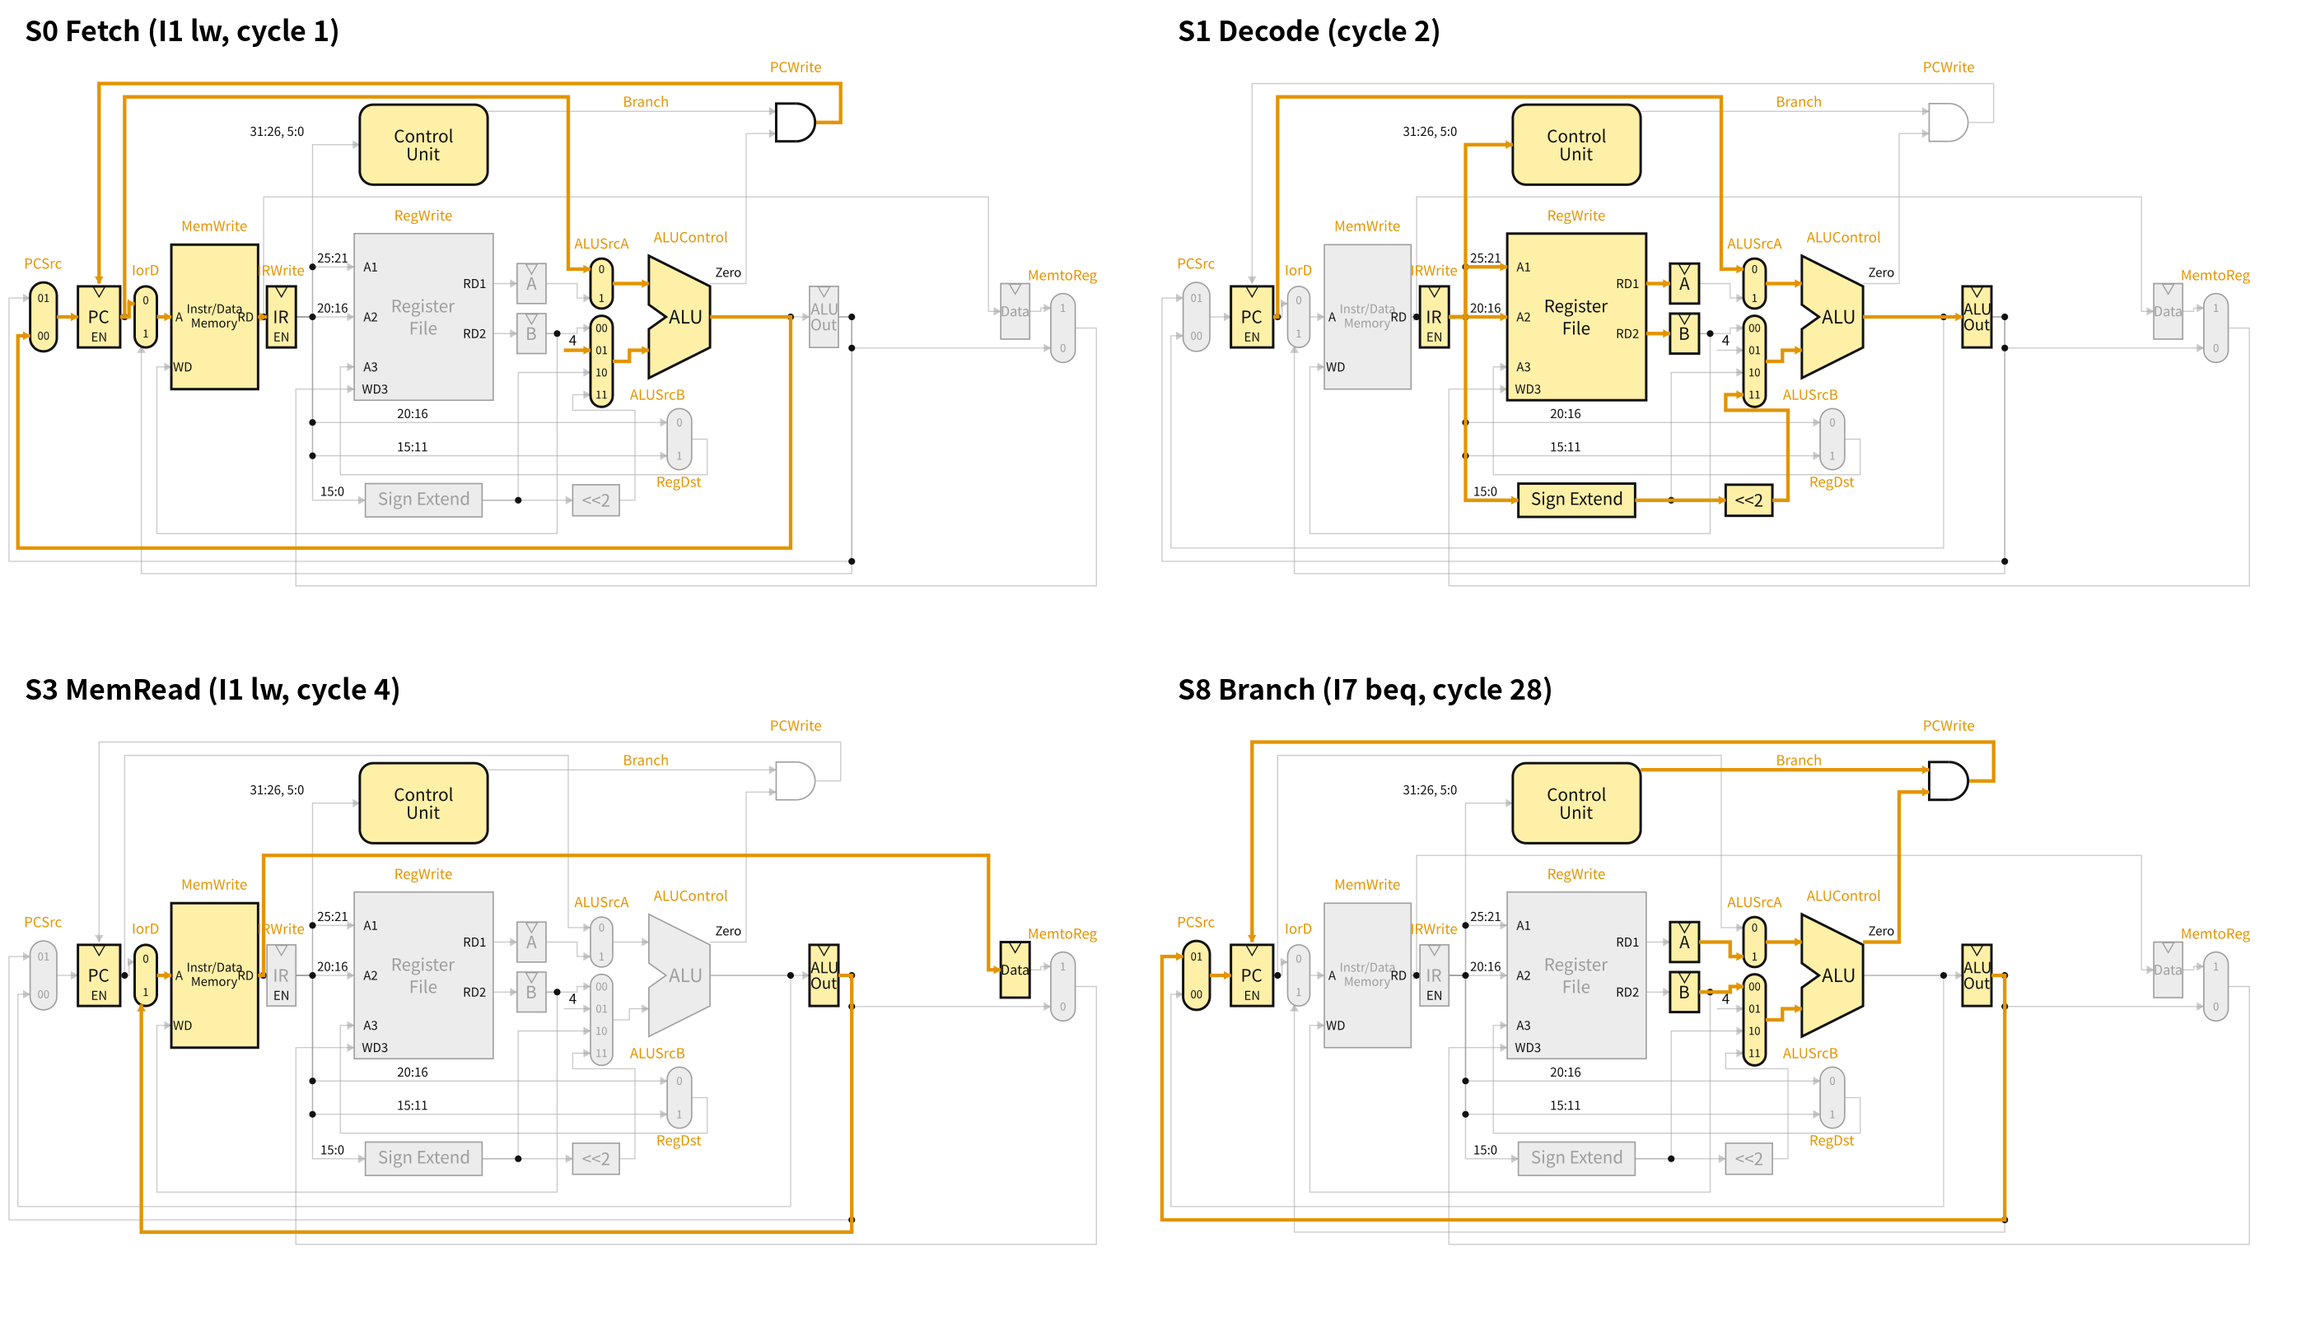
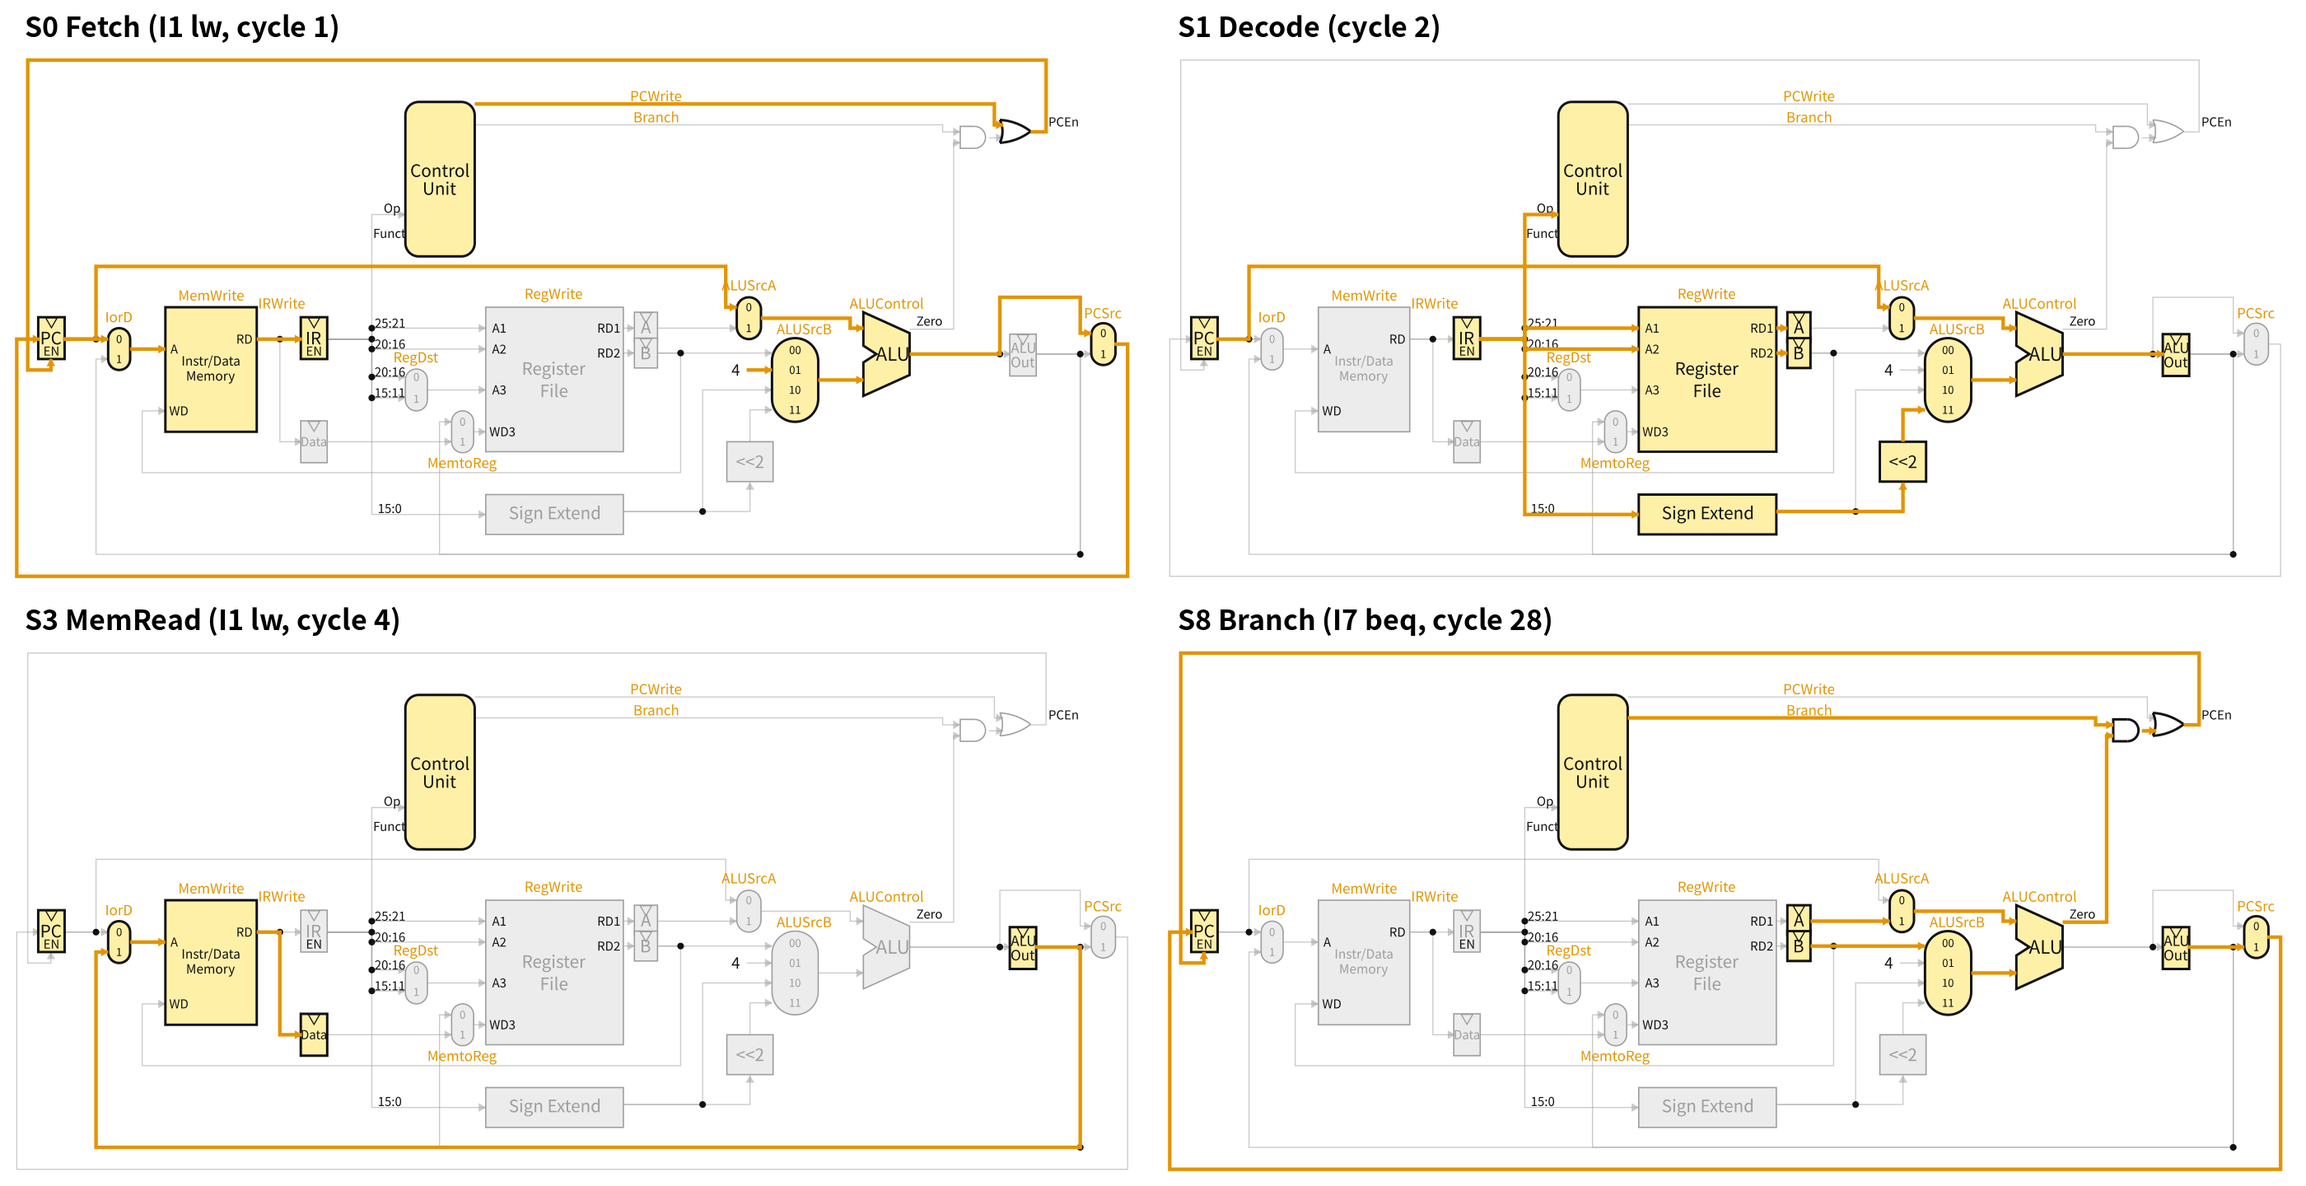
inorder/multi_cycle: redraw the multi-cycle datapath after the supplied H&H multi-cycle figure
Part and wire positions are taken from the pixel coordinates of the reference
figure (kept as inorder/slides/B_multi_cycle_datapath_ref.png): RegDst and
MemtoReg muxes left of the register file, PCSrc mux at the right, PCEn via
AND + OR gates.  The simulator now marks the OR gate and PCWrite/AND inputs.

Claude-Session: https://claude.ai/code/session_01AxNc7avXBfLtQ6ogjBvSix

diff --git a/inorder/shared/datapath.py b/inorder/shared/datapath.py
@@ -19,7 +19,7 @@ Colours come from common.style only.
 from __future__ import annotations
 
 import numpy as np
-from manim import (DOWN, LEFT, RIGHT, UP, WHITE, Arc, Dot, Line, Polygon, Rectangle,
+from manim import (DOWN, LEFT, RIGHT, UP, WHITE, Arc, ArcBetweenPoints, Dot, Line, Polygon, Rectangle,
                    RoundedRectangle, Triangle, VGroup, VMobject)
 
 from common.style import FAINT, GREY, INK, MONO, ORANGE, YEL, txt
@@ -156,6 +156,12 @@ def _shape(kind, c, w, h):
         pts = [(x0, y + h / 2), (x1, y + h / 4), (x1, y - h / 4), (x0, y - h / 2),
                (x0, y - h / 10), (x0 + w * 0.28, y), (x0, y + h / 10)]
         return Polygon(*[[a, b, 0] for a, b in pts])
+    if kind == "or":
+        x0, x1 = x - w / 2, x + w / 2
+        back = ArcBetweenPoints([x0, y + h / 2, 0], [x0, y - h / 2, 0], angle=-0.9)
+        top = ArcBetweenPoints([x0, y + h / 2, 0], [x1, y, 0], angle=-0.6)
+        bot = ArcBetweenPoints([x0, y - h / 2, 0], [x1, y, 0], angle=0.6)
+        return VGroup(back, top, bot)
     if kind == "and":
         x0 = x - w / 2
         body = VMobject()
@@ -210,7 +216,7 @@ class Part(VGroup):
         else:
             self.body.set_stroke(INK, 1.8).set_fill(WHITE, 1)
             self.labels.set_color(INK)
-        if self.kind == "and":
+        if self.kind in ("and", "or"):
             self.body.set_fill(opacity=0)
         return self
 
@@ -258,10 +264,10 @@ class Datapath(VGroup):
         self.comp_group = VGroup(*self.comps.values())
         self.dots = VGroup(*[Dot([x, y, 0], radius=0.03, color=INK) for x, y in junc])
         if variant == "multi":
-            self.four = txt("4", 9).move_to([-1.96, 0.79, 0])
+            self.four = txt("4", 10).move_to([MC_FOUR[0], MC_FOUR[1], 0])
         else:
             self.four = txt("4", 11).move_to([-5.98, -0.60, 0]).shift(LEFT * 0.04)
-        self.fields = VGroup(
+        self.fields = VGroup() if variant == "multi" else VGroup(
             txt("25:21", 8).move_to([-4.12, 1.53, 0]),
             txt("20:16", 8).move_to([-4.12, 1.08, 0]),
             txt("20:16", 8).move_to([-3.40, 0.13, 0]),
@@ -305,98 +311,112 @@ class Datapath(VGroup):
 
 
 # ====================================================================== multi ===
-# Multi-cycle variant (multi-cycle deck slide 57 = PDF p.29), j path omitted.
-# Common parts keep the single-cycle place.  The unified memory takes the
-# instruction-memory slot; the non-architectural registers sit exactly on the
-# stage boundaries where the pipeline registers will go:
-#   IR @ IF/ID,  A,B @ ID/EX,  ALUOut @ EX/MEM,  Data @ MEM/WB.
+# Multi-cycle variant, drawn after the H&H multi-cycle processor figure the user
+# supplied (inorder/slides/B_multi_cycle_datapath_ref.png, 1100x555 px, no jump;
+# same figure as slide 57 = PDF p.29).  Coordinates below are pixel positions in
+# that image, mapped linearly onto the datapath area x -7.0..3.1, y 3.30..-1.45.
+_KX, _KY = 10.1 / 1020, 4.75 / 530
+
+
+def _px(x, y):
+    return (round(-7.0 + (x - 55) * _KX, 4), round(3.30 - (y - 15) * _KY, 4))
+
+
+def _part(kind, x, y, w, h, label=""):
+    return (kind, _px(x, y), w * _KX, h * _KY, label)
+
+
+def _path(*pts):
+    return [_px(x, y) for x, y in pts]
+
+
 MC_LAYOUT = {
-    "PCMUX":     ("mux",   (-6.72, 1.00), 0.24, 0.62, ""),
-    "PC":        ("reg",   (-6.22, 1.00), 0.38, 0.55, "PC"),
-    "IORDMUX":   ("mux",   (-5.80, 1.00), 0.20, 0.55, ""),
-    "MEM":       ("box",   (-5.18, 1.00), 0.78, 1.30, "Instr/Data\nMemory"),
-    "IR":        ("reg",   (-4.58, 1.00), 0.26, 0.55, "IR"),
-    "CTRL":      ("ctrl",  (-3.30, 2.55), 1.15, 0.72, "Control\nUnit"),
-    "RF":        ("box",   (-3.30, 1.00), 1.25, 1.50, "Register\nFile"),
-    "SIGNEXT":   ("box",   (-3.30, -0.65), 1.05, 0.30, "Sign Extend"),
-    "A":         ("reg",   (STAGE_X["ID/EX"], 1.30), 0.26, 0.36, "A"),
-    "B":         ("reg",   (STAGE_X["ID/EX"], 0.85), 0.26, 0.36, "B"),
-    "SRCAMUX":   ("mux",   (-1.70, 1.30), 0.20, 0.45, ""),
-    "SRCBMUX":   ("mux",   (-1.70, 0.60), 0.20, 0.82, ""),
-    "ALU":       ("alu",   (-1.00, 1.00), 0.55, 1.10, "ALU"),
-    "REGDSTMUX": ("mux",   (-1.00, -0.10), 0.22, 0.55, ""),
-    "SL2":       ("box",   (-1.75, -0.65), 0.42, 0.28, "<<2"),
-    "AND":       ("and",   (0.05, 2.75), 0.36, 0.34, ""),
-    "ALUOUT":    ("reg",   (STAGE_X["EX/MEM"], 1.00), 0.26, 0.55, "ALU\nOut"),
-    "DATA":      ("reg",   (STAGE_X["MEM/WB"], 1.05), 0.26, 0.50, "Data"),
-    "RESMUX":    ("mux",   (2.45, 0.90), 0.22, 0.62, ""),
+    "PC":      _part("reg", 90.5, 301, 24, 42, "PC"),
+    "IORDMUX": _part("mux", 152, 312, 20, 42),
+    "MEM":     _part("box", 235.5, 332.5, 83, 125, "Instr/Data\nMemory"),
+    "IR":      _part("reg", 329, 301, 24, 42, "IR"),
+    "DATA":    _part("reg", 329, 405, 24, 42, "Data"),
+    "CTRL":    _part("ctrl", 443.5, 141.5, 63, 155, "Control\nUnit"),
+    "REGDSTMUX": _part("mux", 422, 353, 20, 42),
+    "RESMUX":  _part("mux", 464, 395, 20, 42),
+    "RF":      _part("box", 547.5, 342.5, 125, 145, "Register\nFile"),
+    "SIGNEXT": _part("box", 547.5, 478, 125, 40, "Sign Extend"),
+    "A":       _part("reg", 630.5, 290, 21, 30, "A"),
+    "B":       _part("reg", 630.5, 316, 21, 30, "B"),
+    "SRCAMUX": _part("mux", 724, 281, 22, 42),
+    "SRCBMUX": _part("mux", 766, 343, 42, 84),
+    "SL2":     _part("box", 725, 425, 42, 40, "<<2"),
+    "ALU":     _part("alu", 849, 317, 42, 84, "ALU"),
+    "ALUOUT":  _part("reg", 973, 318, 24, 42, "ALU\nOut"),
+    "PCMUX":   _part("mux", 1046, 307, 22, 42),
+    "AND":     _part("and", 929, 99.5, 26, 22),
+    "OR":      _part("or", 966, 93.5, 28, 23),
 }
 MC_MUX_LABELS = {
-    "PCMUX": [("01", 1.17), ("00", 0.83)], "IORDMUX": [("0", 1.15), ("1", 0.85)],
-    "SRCAMUX": [("0", 1.43), ("1", 1.17)],
-    "SRCBMUX": [("00", 0.90), ("01", 0.70), ("10", 0.50), ("11", 0.30)],
-    "REGDSTMUX": [("0", 0.05), ("1", -0.25)], "RESMUX": [("1", 1.08), ("0", 0.72)],
+    "IORDMUX": [("0", _px(0, 302)[1]), ("1", _px(0, 322)[1])],
+    "REGDSTMUX": [("0", _px(0, 340)[1]), ("1", _px(0, 362)[1])],
+    "RESMUX": [("0", _px(0, 385)[1]), ("1", _px(0, 405)[1])],
+    "SRCAMUX": [("0", _px(0, 270)[1]), ("1", _px(0, 291)[1])],
+    "SRCBMUX": [("00", _px(0, 313)[1]), ("01", _px(0, 333)[1]), ("10", _px(0, 353)[1]),
+                ("11", _px(0, 373)[1])],
+    "PCMUX": [("0", _px(0, 296)[1]), ("1", _px(0, 317)[1])],
 }
-_SP = SPINE_X
+_S = 381.5      # instruction bus
 MC_WIRES = {
-    "pcnext":           [P["pcmux_out"], P["pc_in"]],
-    "pc_iord":          [(-6.03, 1.00), (-5.95, 1.00), (-5.95, 1.12), (-5.90, 1.12)],
-    "iord_adr":         [(-5.70, 1.00), (-5.57, 1.00)],
-    "aluout_iord":      [(0.43, 1.00), (0.55, 1.00), (0.55, -1.31), (-5.84, -1.31), (-5.84, 0.74)],
-    "mem_ir":           [(-4.79, 1.00), (-4.71, 1.00)],
-    "mem_data":         [(-4.79, 1.00), (-4.74, 1.00), (-4.74, 2.08), (1.78, 2.08), (1.78, 1.05),
-                         (1.89, 1.05)],
-    "b_wd":             [(-2.20, 0.85), (-2.10, 0.85), (-2.10, -0.95), (-5.70, -0.95), (-5.70, 0.55),
-                         (-5.57, 0.55)],
-    "ir_ctrl":          [(-4.45, 1.00), (_SP, 1.00), (_SP, 2.55), P["ctrl_in"]],
-    "ir_a1":            [(-4.45, 1.00), (_SP, 1.00), (_SP, 1.45), P["rf_a1"]],
-    "ir_a2":            [(-4.45, 1.00), P["rf_a2"]],
-    "ir_rt_wr":         [(-4.45, 1.00), (_SP, 1.00), (_SP, 0.05), P["rdm_in0"]],
-    "ir_rd_wr":         [(-4.45, 1.00), (_SP, 1.00), (_SP, -0.25), P["rdm_in1"]],
-    "ir_imm":           [(-4.45, 1.00), (_SP, 1.00), (_SP, -0.65), P["se_in"]],
-    "writereg":         WIRES["writereg"],
-    "rd1_a":            [P["rf_rd1"], (-2.46, 1.30)],
-    "rd2_b":            [P["rf_rd2"], (-2.46, 0.85)],
-    "pc_srca":          [(-6.03, 1.00), (-5.99, 1.00), (-5.99, 2.98), (-2.00, 2.98), (-2.00, 1.43),
-                         (-1.80, 1.43)],
-    "a_srca":           [(-2.20, 1.30), (-1.92, 1.30), (-1.92, 1.17), (-1.80, 1.17)],
-    "b_srcb":           [(-2.20, 0.85), (-1.92, 0.85), (-1.92, 0.90), (-1.80, 0.90)],
-    "four_srcb":        [(-2.04, 0.70), (-1.80, 0.70)],
-    "signimm_srcb":     [P["se_out"], (-2.45, -0.65), (-2.45, 0.50), (-1.80, 0.50)],
-    "signimm_sl2":      [P["se_out"], P["sl2_in"]],
-    "sl2_srcb":         [P["sl2_out"], (-1.40, -0.65), (-1.40, 0.16), (-1.96, 0.16), (-1.96, 0.30),
-                         (-1.80, 0.30)],
-    "srca":             [(-1.60, 1.30), P["alu_a"]],
-    "srcb":             [(-1.60, 0.60), (-1.45, 0.60), (-1.45, 0.70), P["alu_b"]],
-    "aluresult_aluout": [P["alu_y"], (0.17, 1.00)],
-    "aluresult_pcmux":  [P["alu_y"], (0.00, 1.00), (0.00, -1.08), (-6.95, -1.08), (-6.95, 0.83),
-                         (-6.84, 0.83)],
-    "aluout_pcmux":     [(0.43, 1.00), (0.55, 1.00), (0.55, -1.20), (-7.03, -1.20), (-7.03, 1.17),
-                         (-6.84, 1.17)],
-    "aluout_res":       [(0.43, 1.00), (0.55, 1.00), (0.55, 0.72), (2.34, 0.72)],
-    "data_res":         [(2.15, 1.05), (2.25, 1.05), (2.25, 1.08), (2.34, 1.08)],
-    "result_wd3":       [P["rsm_out"], (2.75, 0.90), (2.75, -1.42), (X_RES, -1.42), (X_RES, 0.35),
-                         P["rf_wd3"]],
-    "zero_and":         WIRES["zero_and"],
-    "branch_and":       WIRES["branch_and"],
-    "pcen":             [P["and_y"], (0.45, 2.75), (0.45, Y_TOP), (-6.22, Y_TOP), (-6.22, 1.30)],
+    "pcnext":           _path((1056, 307), (1068, 307), (1068, 540), (59, 540), (59, 302), (80, 302)),
+    "pc_iord":          _path((101, 302), (142, 302)),
+    "pc_srca":          _path((101, 302), (131, 302), (131, 229), (703, 229), (703, 270), (713, 270)),
+    "iord_adr":         _path((162, 312), (194, 312)),
+    "aluout_iord":      _path((984, 317), (1025, 317), (1025, 518), (131, 518), (131, 322), (142, 322)),
+    "mem_ir":           _path((277, 302), (318, 302)),
+    "mem_data":         _path((277, 302), (298, 302), (298, 405), (318, 405)),
+    "b_wd":             _path((641, 316), (662, 316), (662, 436), (173, 436), (173, 374), (194, 374)),
+    "ir_ctrl":          _path((340, 302), (_S, 302), (_S, 177), (412, 177)),
+    "ir_a1":            _path((340, 302), (_S, 302), (_S, 291), (485, 291)),
+    "ir_a2":            _path((340, 302), (_S, 302), (_S, 312), (485, 312)),
+    "ir_rt_wr":         _path((340, 302), (_S, 302), (_S, 340), (412, 340)),
+    "ir_rd_wr":         _path((340, 302), (_S, 302), (_S, 361), (412, 361)),
+    "ir_imm":           _path((340, 302), (_S, 302), (_S, 478), (485, 478)),
+    "writereg":         _path((432, 353), (485, 353)),
+    "data_res":         _path((340, 405), (454, 405)),
+    "aluout_res":       _path((984, 317), (1025, 317), (1025, 518), (443, 518), (443, 385), (454, 385)),
+    "result_wd3":       _path((474, 395), (485, 395)),
+    "rd1_a":            _path((610, 291), (620, 291)),
+    "rd2_b":            _path((610, 316), (620, 316)),
+    "a_srca":           _path((641, 291), (713, 291)),
+    "b_srcb":           _path((641, 316), (745, 316)),
+    "four_srcb":        _path((722, 333), (745, 333)),
+    "signimm_srcb":     _path((610, 475), (682, 475), (682, 353), (745, 353)),
+    "signimm_sl2":      _path((610, 475), (725, 475), (725, 446)),
+    "sl2_srcb":         _path((725, 405), (725, 373), (745, 373)),
+    "srca":             _path((735, 281), (816, 281), (816, 291), (828, 291)),
+    "srcb":             _path((787, 343), (828, 343)),
+    "aluresult_aluout": _path((870, 317), (962, 317)),
+    "aluresult_pcmux":  _path((870, 317), (952, 317), (952, 260), (1025, 260), (1025, 296), (1035, 296)),
+    "aluout_pcmux":     _path((984, 317), (1035, 317)),
+    "zero_and":         _path((870, 292), (910, 292), (910, 105), (916, 105)),
+    "branch_and":       _path((475, 87), (900, 87), (900, 94), (916, 94)),
+    "pcwrite_or":       _path((475, 66), (947, 66), (947, 87), (955, 87)),
+    "and_or":           _path((942, 100), (955, 100)),
+    "pcen":             _path((980, 94), (994, 94), (994, 22), (69, 22), (69, 333), (90, 333), (90, 322)),
 }
-MC_JUNCTIONS = [(-5.99, 1.00), (-4.74, 1.00), (_SP, 1.00), (_SP, 0.05), (_SP, -0.25), (_SP, 1.45),
-                (-2.10, 0.85), (-2.45, -0.65), (0.00, 1.00), (0.55, 1.00), (0.55, 0.72), (0.55, -1.20)]
-MC_TAGS = {"PCWrite": ((0.05, 3.25), "PCWrite"), "Branch": ((-1.30, 2.94), "Branch"),
-           "PCSrc": ((-6.72, 1.48), "PCSrc"), "IorD": ((-5.80, 1.42), "IorD"),
-           "MemWrite": ((-5.18, 1.82), "MemWrite"), "IRWrite": ((-4.58, 1.42), "IRWrite"),
-           "RegWrite": ((-3.30, 1.90), "RegWrite"), "RegDst": ((-1.00, -0.50), "RegDst"),
-           "ALUSrcA": ((-1.70, 1.66), "ALUSrcA"), "ALUSrcB": ((-1.20, 0.30), "ALUSrcB"),
-           "ALUControl": ((-0.90, 1.72), "ALUControl"), "MemtoReg": ((2.45, 1.36), "MemtoReg")}
-MC_PORTS = [("A1", -3.78, 1.45), ("A2", -3.78, 1.00), ("A3", -3.78, 0.55), ("WD3", -3.74, 0.35),
-            ("RD1", -2.84, 1.30), ("RD2", -2.84, 0.85), ("A", -5.50, 1.00), ("RD", -4.90, 1.00),
-            ("WD", -5.47, 0.55), ("Zero", -0.56, 1.40), ("EN", -6.22, 0.82), ("EN", -4.58, 0.82)]
-MC_SLOTS = {
-    "PC": ((-6.22, 0.55), DOWN), "Adr": ((-5.55, 1.75), UP), "ReadData": ((-4.10, 2.20), UP),
-    "IR": ((-4.58, 0.55), DOWN), "RD1": ((-2.50, 1.60), UP), "RD2": ((-2.50, 0.55), DOWN),
-    "SignImm": ((-2.62, -0.80), DOWN), "SrcA": ((-1.45, 1.45), UP), "SrcB": ((-1.30, 0.55), DOWN),
-    "ALUResult": ((-0.33, 0.86), DOWN), "Zero": ((-0.40, 2.05), RIGHT), "ALUOut": ((0.30, 0.55), DOWN),
-    "Data": ((2.02, 1.50), UP), "WriteReg": ((-0.42, -0.24), RIGHT), "WD3": ((2.98, 0.35), RIGHT),
-    "WriteData": ((-4.0, -0.82), UP), "PCNext": ((-6.50, -1.55), DOWN),
-}
+MC_JUNCTIONS = [_px(*q) for q in [(131, 302), (298, 302), (_S, 302), (_S, 291), (_S, 312), (_S, 340),
+                                  (_S, 361), (662, 316), (682, 475), (952, 317), (1025, 317),
+                                  (1025, 518)]]
+MC_TAGS = {k: (_px(x, y), k) for k, x, y in [
+    ("PCWrite", 640, 58), ("Branch", 640, 79), ("PCSrc", 1046, 276), ("IorD", 152, 280),
+    ("MemWrite", 236, 258), ("IRWrite", 300, 266), ("RegDst", 422, 322), ("MemtoReg", 464, 428),
+    ("RegWrite", 547, 258), ("ALUSrcA", 724, 248), ("ALUSrcB", 774, 292), ("ALUControl", 849, 266)]}
+MC_PORTS = [(t, *_px(x, y)) for t, x, y in [
+    ("A", 202, 312), ("RD", 266, 302), ("WD", 206, 374), ("EN", 90.5, 314), ("EN", 329, 314),
+    ("A1", 497, 291), ("A2", 497, 312), ("A3", 497, 353), ("WD3", 500, 395), ("RD1", 597, 291),
+    ("RD2", 597, 316), ("Zero", 888, 284), ("Op", 400, 172), ("Funct", 398, 196), ("PCEn", 1010, 84),
+    ("25:21", 398, 286), ("20:16", 398, 307), ("20:16", 398, 335),
+    ("15:11", 398, 356), ("15:0", 398, 472)]]
+MC_FOUR = _px(712, 333)
+MC_SLOTS = {k: (_px(x, y), d) for k, x, y, d in [
+    ("PC", 112, 352, DOWN), ("Adr", 178, 298, UP), ("ReadData", 296, 285, UP), ("IR", 329, 252, UP),
+    ("Data", 329, 440, DOWN), ("RD1", 660, 280, UP), ("RD2", 700, 326, DOWN), ("SignImm", 640, 466, UP),
+    ("SrcA", 785, 270, UP), ("SrcB", 805, 333, UP), ("ALUResult", 912, 330, DOWN),
+    ("Zero", 896, 278, UP), ("ALUOut", 1000, 350, DOWN), ("WriteReg", 452, 343, UP),
+    ("WD3", 476, 420, DOWN), ("WriteData", 420, 448, DOWN), ("PCNext", 1040, 530, UP)]}

diff --git a/inorder/multi_cycle/sim/multi_cycle.py b/inorder/multi_cycle/sim/multi_cycle.py
@@ -107,9 +107,9 @@ def state_work(s, c, op_name):
         ev.append({"comp": comp, "stage": stage, "start": start, "end": start + dur})
         return start + dur
     if s == "S0":
-        comps += ["IORDMUX", "MEM", "IR", "SRCAMUX", "SRCBMUX", "ALU", "PCMUX", "AND"]
+        comps += ["IORDMUX", "MEM", "IR", "SRCAMUX", "SRCBMUX", "ALU", "PCMUX", "OR"]
         wires += ["pc_iord", "iord_adr", "mem_ir", "pc_srca", "four_srcb", "srca", "srcb",
-                  "aluresult_pcmux", "pcnext", "pcen"]
+                  "aluresult_pcmux", "pcnext", "pcwrite_or", "pcen"]
         add("MEM", 0, D["mem"], "IF")
         add("ALU", 0, D["alu"], "IF")
     elif s == "S1":
@@ -127,8 +127,8 @@ def state_work(s, c, op_name):
         wires += ["a_srca", "b_srcb", "srca", "srcb", "aluresult_aluout"]
         add("ALU", 0, D["alu"], "EX")
     elif s == "S8":
-        comps += ["A", "B", "SRCAMUX", "SRCBMUX", "ALU", "AND", "PCMUX", "ALUOUT"]
-        wires += ["a_srca", "b_srcb", "srca", "srcb", "zero_and", "branch_and", "pcen",
+        comps += ["A", "B", "SRCAMUX", "SRCBMUX", "ALU", "AND", "OR", "PCMUX", "ALUOUT"]
+        wires += ["a_srca", "b_srcb", "srca", "srcb", "zero_and", "branch_and", "and_or", "pcen",
                   "aluout_pcmux", "pcnext"]
         add("ALU", 0, D["alu"], "EX")
     elif s == "S3":
